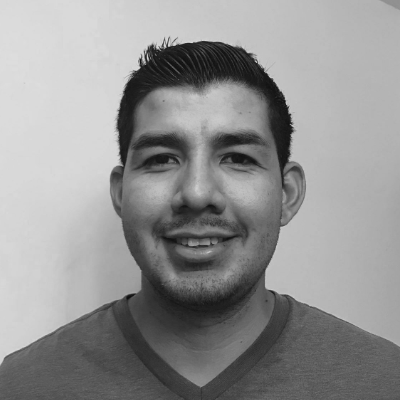
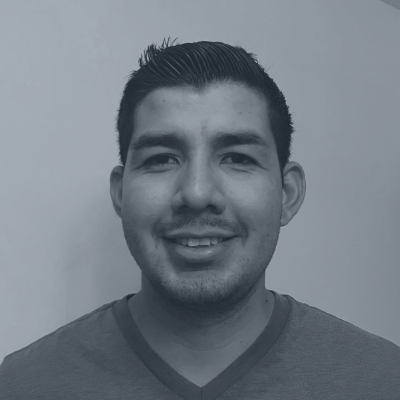
update site content and component color

diff --git a/css/app.css b/css/app.css
@@ -2,6 +2,11 @@
 html, body{
   margin: 0;
   padding: 0;
+  background-color: #181B1E;
+}
+
+* {
+	font-family: 'Play', sans-serif;
 }
 .wrapper {
 	overflow-x: hidden;
@@ -13,7 +18,7 @@ html, body{
   position: absolute;
   width: 100%;
   height: 1800px;
-  background-color: #fafafa;
+  background-color: #181B1E;
   background-repeat: no-repeat;
   /*background-position: 50% 50%;*/
   z-index: 0;
@@ -31,15 +36,6 @@ html, body{
  margin-left: 20px;
 }
 
-.montsFnt {
-	font-family: 'Montserrat', sans-serif;
-}
-.sansFnt {
-	font-family: 'Open Sans', sans-serif;
-}
-.ubntFnt {
- font-family: 'Ubuntu', sans-serif;
-}
 .section {
   height: 300px;
   position:relative;
@@ -53,16 +49,28 @@ html, body{
 	margin-left: 5px;
 	margin-left: 10px;
 	border: none;
-	border-left: 10px solid #1fadc5;
+	border-left: 10px solid #033F63;
+	background-color: rgba(58, 80, 107, 0.2)!important;
 }
 .card-header {
-	background-color: white;
+    background-color: none;
+	color: #033F63;
+	font-weight: bold;
 }
 
 .card-title {
 	font-size: 1em;
+	color: #033F63;
 }
 
+.card-text {
+	color: #B4B8BA;
+}
+
+a {
+	color: #89AEB5;
+	text-decoration: underline;
+}
 
 /*::::::Global_End::::::*/
 
@@ -82,7 +90,7 @@ html, body{
 .menuItm {
 	font-size: 1em;
 	font-weight: 700;
-	color: #121416;
+	color: #033F63;
 }
 .profileSec {
   height: 300px;
@@ -106,11 +114,10 @@ html, body{
 	margin-top: 100px;
 	height: 100px;
 	font-size: 5em;
-	font-family: 'Ubuntu', sans-serif;
 	font-weight: 900;
 	margin-bottom: 120px;
 	text-align: center;
-	color: #121416;
+	color: #033F63;
 
 }
 /*:::::::Header_End::::::*/

diff --git a/index.html b/index.html
@@ -8,9 +8,7 @@
     <link rel="stylesheet" href="node_modules/normalize.css/normalize.css">
     <link rel="stylesheet" href="css/bootstrap.css">
     <link rel="stylesheet" href="css/app.css">
-    <link href="https://fonts.googleapis.com/css?family=Montserrat:400,700,900" rel="stylesheet">
-    <link href="https://fonts.googleapis.com/css?family=Open+Sans:300,700,900" rel="stylesheet">
-    <link href="https://fonts.googleapis.com/css?family=Ubuntu:700" rel="stylesheet">
+    <link href="https://fonts.googleapis.com/css?family=Play:400,700" rel="stylesheet">
     <script src="https://cdnjs.cloudflare.com/ajax/libs/popper.js/1.12.3/umd/popper.min.js" integrity="sha384-vFJXuSJphROIrBnz7yo7oB41mKfc8JzQZiCq4NCceLEaO4IHwicKwpJf9c9IpFgh" crossorigin="anonymous"></script>
     <script type="text/javascript" src="js/particles.js"></script>
   </head>
@@ -42,7 +40,7 @@
               <img id="profilePic" src="assets/img/ProfilePic.png">
             </div>
             <div class="col-sm-12 col-md-12"> 
-              <h1 id="greeting" class="ubntFnt">Hi, I am <br/>Pedro Castaneda</h1>
+              <h1 id="greeting" class="playFnt">Hi, I am <br/>Pedro Castaneda</h1>
             </div>
           </div>
           <div class="row section">

diff --git a/js/app.js b/js/app.js
@@ -8,7 +8,7 @@ particlesJS('particles-js', {
       }
     },
     "color": {
-      "value": ["#121416", "#AFFC41", "#1FADC5"]
+      "value": ["#033F63", "#417B5A", "#5F5980"]
     },
     "shape": {
       "type": "circle",
@@ -48,7 +48,7 @@ particlesJS('particles-js', {
     "line_linked": {
       "enable": true,
       "distance": 200,
-      "color": "#333333",
+      "color": "#474747",
       "opacity": 0.5,
       "width": 0.5,
     },
